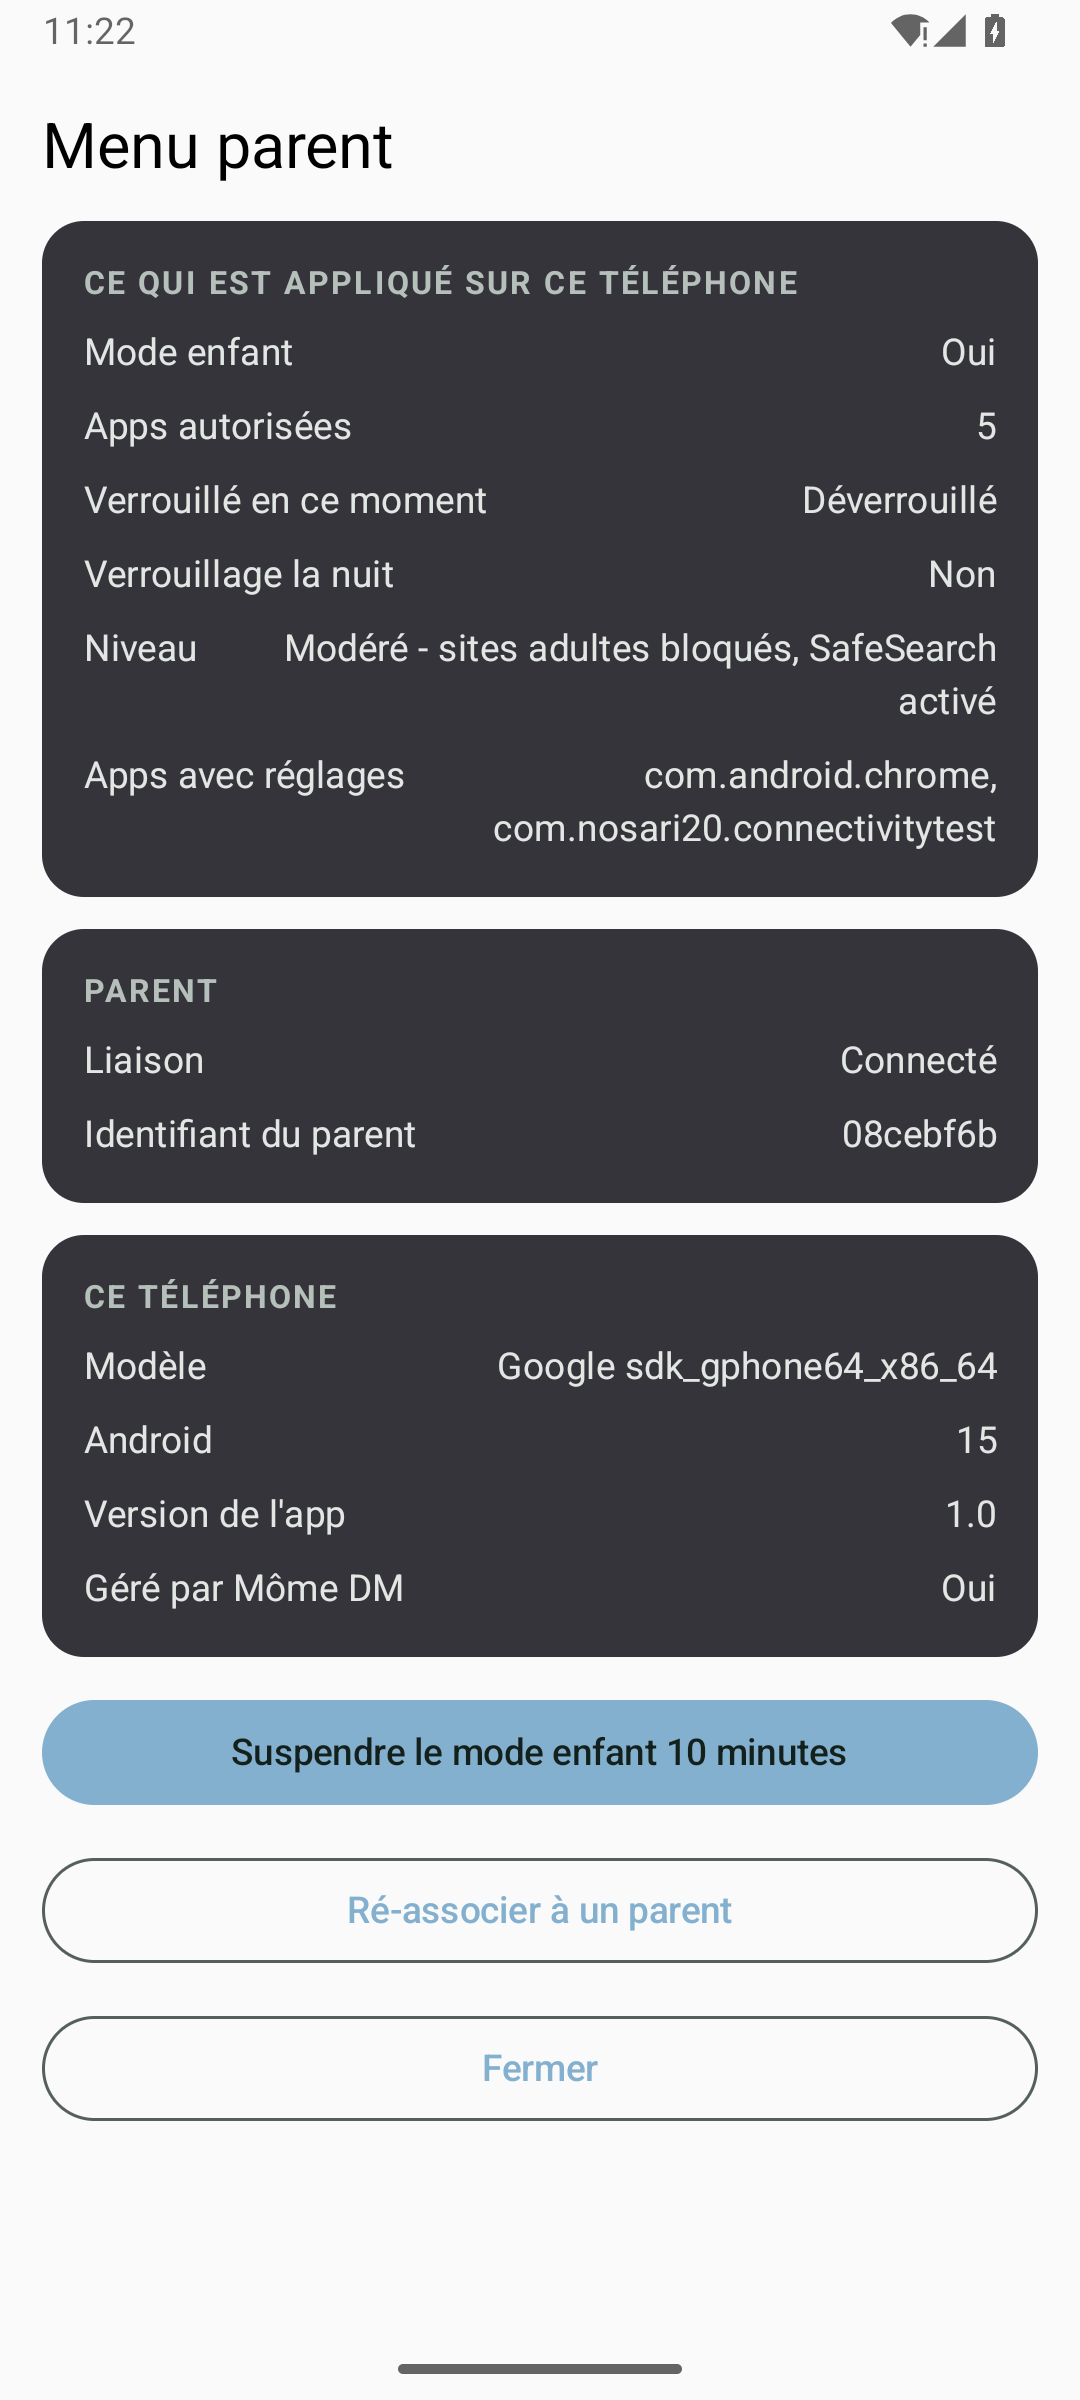
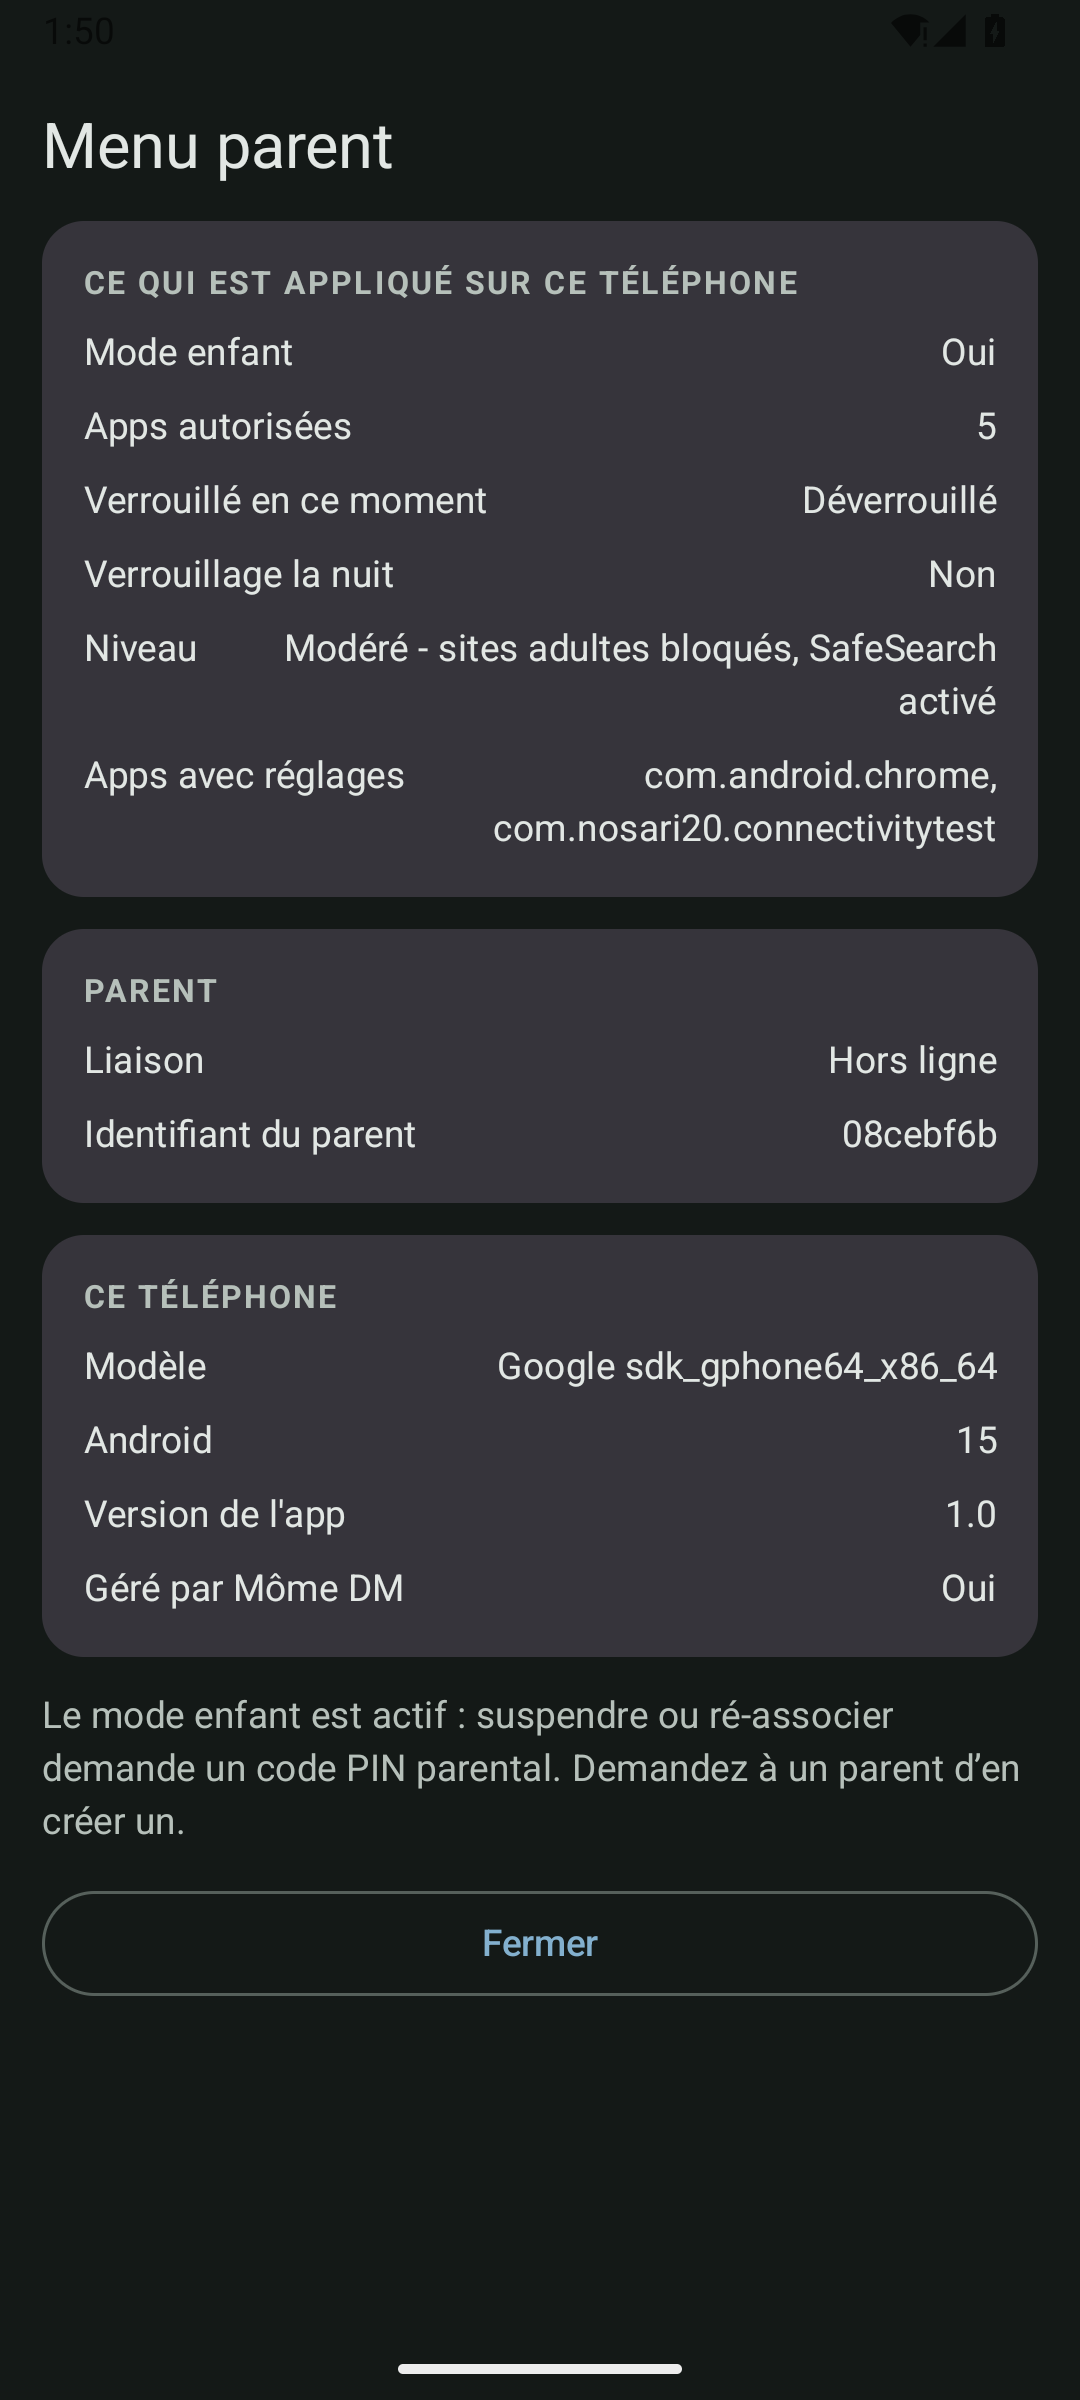
fix: the parent menu was the one child screen ignoring the pushed theme
The review raised this as a probable screenshot artifact. It was not. The
launcher paints its own gradient and the bedtime screen its own Box, but
ChildMenuScreen painted nothing at all, so the Activity's window background showed
through — light, whatever theme the parent had pushed. A child long-pressing into
the menu at night got a white flash in an otherwise dark app. It now paints
colorScheme.background like its siblings, and the screenshot is re-captured dark.

The same review flagged the settings screenshot as missing a "Connection" row that
the code renders unconditionally. That was a stale capture — the row is there —
so the screenshot is re-taken. Its real finding stands and is fixed: Connection
was the only category without a one-line subtitle, and the screen behind it is the
most technical in the app.

diff --git a/app/src/main/java/edu/fnosari/momedm/activities/managed/screens/ChildMenuScreen.kt b/app/src/main/java/edu/fnosari/momedm/activities/managed/screens/ChildMenuScreen.kt
@@ -19,6 +19,7 @@ import androidx.compose.material3.Button
 import androidx.compose.material3.Card
 import androidx.compose.material3.MaterialTheme
 import androidx.compose.material3.OutlinedButton
+import androidx.compose.material3.Surface
 import androidx.compose.material3.Text
 import androidx.compose.runtime.Composable
 import androidx.compose.runtime.collectAsState
@@ -65,6 +66,11 @@ fun ChildMenuScreen(vm: ManagedViewModel, onPause: () -> Unit) {
     // a parent who scrolled past it is stuck on a screen with no visible exit.
     BackHandler { vm.menuOpen.value = false }
 
+    // Paints the themed background itself. Its siblings do — the launcher draws a gradient, the
+    // bedtime screen a Box — and this one drew nothing, so the Activity's window background showed
+    // through instead: a child long-pressing into the menu at night got a white flash in an otherwise
+    // dark app, and the parent's pushed theme was ignored on exactly one screen.
+    Surface(color = MaterialTheme.colorScheme.background, modifier = Modifier.fillMaxSize()) {
     Column(
         Modifier.fillMaxSize().windowInsetsPadding(WindowInsets.systemBars).padding(16.dp).verticalScroll(rememberScrollState()),
         verticalArrangement = Arrangement.spacedBy(12.dp),
@@ -175,6 +181,7 @@ fun ChildMenuScreen(vm: ManagedViewModel, onPause: () -> Unit) {
         OutlinedButton(onClick = { vm.closeMenu() }, modifier = Modifier.fillMaxWidth()) {
             Text(stringResource(R.string.menu_close))
         }
+    }
     }
 }
 

diff --git a/app/src/main/java/edu/fnosari/momedm/activities/settings/screens/SettingsCategories.kt b/app/src/main/java/edu/fnosari/momedm/activities/settings/screens/SettingsCategories.kt
@@ -47,6 +47,9 @@ fun SettingsMenu(navController: NavHostController) {
             item { SettingsCategoryItem(
                 title = context.getString(Routes.CONNECTION.label),
                 icon = Routes.CONNECTION.icon,
+                // The only row that lacked a subtitle, and the one that most needed one: the screen
+                // behind it is the most technical in the app (advertising state, an event log).
+                supportingText = context.getString(R.string.settings_connection_help),
                 onClick = { navController.navigate(Routes.CONNECTION.name) })
             }
 
